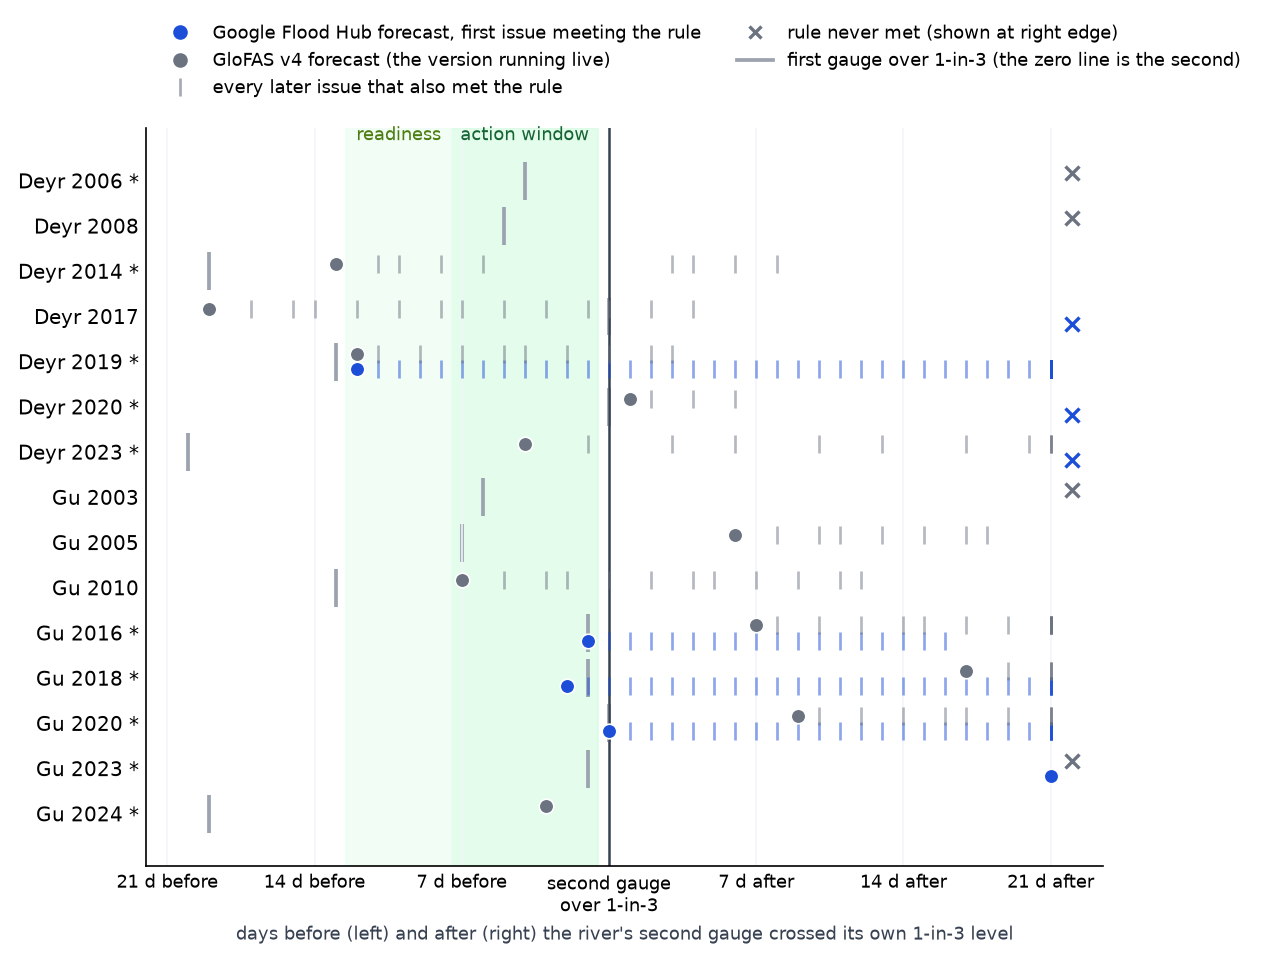
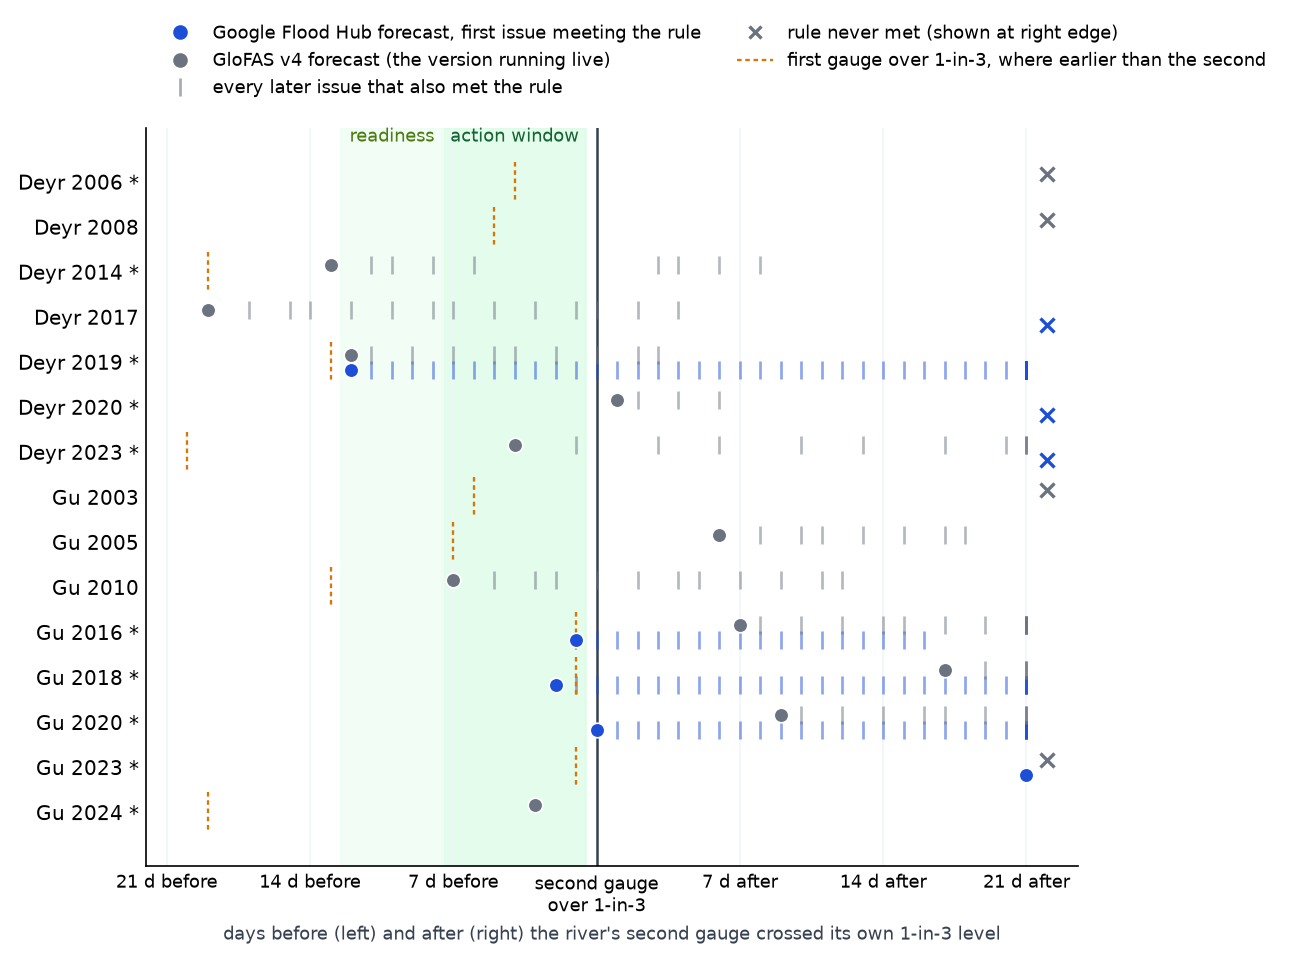
Trigger summary: first-gauge marker as a thin dotted amber line, drawn over the grid

diff --git a/pages/trigger-single-model/summary.html b/pages/trigger-single-model/summary.html
@@ -56,4 +56,4 @@ D.rows.slice().reverse().forEach(function(r){
   h.push("<tr>"+cells.join("")+"</tr>");
 });
 document.getElementById("aiTable").innerHTML=h.join("");
-})();</script><h2>Checked on the forecasts</h2><p>The tests above use each model's record of the past, whereas the trigger runs on forecasts. The historical forecasts were therefore replayed to find the day the alert would have gone out, 1 to 7 days ahead, and that day was compared with the day the flood season began at the gauges, which is the day the river's second gauge crossed its own 1-in-3 level (the first gauge may have crossed days earlier). Either river counts. Only Google Flood Hub (2016 to 2023) and GloFAS v4 (2003 to 2023, plus the live Gu 2024 forecasts) have archives. GloFAS's archive holds two issue days a week (104 a year) where Google's holds every day, so replayed GloFAS lead times are coarser by up to three days. The live GloFAS forecast is daily.</p><figure><img src="figs/s_leads.png" alt="Lead time of the first forecast issue meeting the rule, per flood season"><figcaption>One row per flood season, with severe seasons starred. The green band is the action window and the pale green band is readiness. The grey bar is the day the river's first gauge crossed its own 1-in-3 level, and the black line at zero is the second gauge, the reference used here. The dot is the first forecast issue that met the rule, and the ticks are every later issue that met it. Points left of the zero line went out before the second gauge crossed, and points to the right went out after it.</figcaption></figure><p>In Deyr, GloFAS v4 activated before the second gauge crossed in 4 of 7 seasons and was first in 3 of the 4 seasons both archives cover. In Gu, Google was first in all 4. On the Shabelle it gave 10 to 13 days of warning in three of four seasons, where GloFAS v4 gave 3 days once and nothing in the other three. The lead-time comparison and the calibration were done independently and point the same way.</p><details><summary>Flood by flood</summary><div class='tw'><table><thead><tr><th>Season</th><th>River(s) that flooded</th><th>Second gauge over 1-in-3</th><th>Google Flood Hub forecast</th><th>GloFAS v4 forecast</th><th>First</th></tr></thead><tbody><tr><td>Deyr 2006 *</td><td>Juba and Shabelle</td><td>30 Oct</td><td><span class="pill na">no archive</span></td><td><span class="pill never">rule never met</span></td><td></td></tr><tr><td>Deyr 2008</td><td>Juba and Shabelle</td><td>15 Nov</td><td><span class="pill na">no archive</span></td><td><span class="pill never">rule never met</span></td><td></td></tr><tr><td>Deyr 2014 *</td><td>Juba and Shabelle</td><td>20 Oct</td><td><span class="pill na">no archive</span></td><td><span class="pill before">13 d before</span><span class="who">Shabelle, 7 Oct</span></td><td></td></tr><tr><td>Deyr 2017</td><td>Juba</td><td>7 Nov</td><td><span class="pill never">rule never met</span></td><td><span class="pill before">19 d before</span><span class="who">Juba, 19 Oct</span></td><td>GloFAS v4</td></tr><tr><td>Deyr 2019 *</td><td>Shabelle</td><td>14 Oct</td><td><span class="pill before">12 d before</span><span class="who">Shabelle, 2 Oct</span></td><td><span class="pill before">12 d before</span><span class="who">Shabelle, 2 Oct</span></td><td>tie</td></tr><tr><td>Deyr 2020 *</td><td>Shabelle</td><td>1 Oct</td><td><span class="pill never">rule never met</span></td><td><span class="pill after">1 d after</span><span class="who">Shabelle, 2 Oct</span></td><td>GloFAS v4</td></tr><tr><td>Deyr 2023 *</td><td>Juba and Shabelle</td><td>25 Oct</td><td><span class="pill never">rule never met</span></td><td><span class="pill before">4 d before</span><span class="who">Juba, 21 Oct</span></td><td>GloFAS v4</td></tr><tr><td>Gu 2003</td><td>Shabelle</td><td>11 May</td><td><span class="pill na">no archive</span></td><td><span class="pill never">rule never met</span></td><td></td></tr><tr><td>Gu 2005</td><td>Juba and Shabelle</td><td>12 May</td><td><span class="pill na">no archive</span></td><td><span class="pill after">6 d after</span><span class="who">Shabelle, 18 May</span></td><td></td></tr><tr><td>Gu 2010</td><td>Juba and Shabelle</td><td>18 May</td><td><span class="pill na">no archive</span></td><td><span class="pill before">7 d before</span><span class="who">Shabelle, 11 May</span></td><td></td></tr><tr><td>Gu 2016 *</td><td>Juba and Shabelle</td><td>1 May</td><td><span class="pill before">1 d before</span><span class="who">Shabelle, 30 Apr</span></td><td><span class="pill after">7 d after</span><span class="who">Shabelle, 8 May</span></td><td>Google</td></tr><tr><td>Gu 2018 *</td><td>Juba and Shabelle</td><td>17 Apr</td><td><span class="pill before">2 d before</span><span class="who">Juba, 15 Apr</span></td><td><span class="pill after">17 d after</span><span class="who">Juba, 4 May</span></td><td>Google</td></tr><tr><td>Gu 2020 *</td><td>Juba and Shabelle</td><td>22 Apr</td><td><span class="pill same">same day</span><span class="who">Shabelle, 22 Apr</span></td><td><span class="pill after">9 d after</span><span class="who">Juba, 1 May</span></td><td>Google</td></tr><tr><td>Gu 2023 *</td><td>Juba and Shabelle</td><td>25 Mar</td><td><span class="pill after">32 d after</span><span class="who">Shabelle, 26 Apr</span></td><td><span class="pill never">rule never met</span></td><td>Google</td></tr><tr><td>Gu 2024 *</td><td>Juba and Shabelle</td><td>8 May</td><td><span class="pill na">no archive</span></td><td><span class="pill before">3 d before</span><span class="who">Juba, 5 May</span></td><td></td></tr></tbody></table></div></details><h2>SWALIM's alerts</h2><p>SWALIM's bulletins were first in 6 of the 8 seasons in which both SWALIM and the window's source flagged, and SWALIM alone flagged in 5 further seasons. First means the bulletin date against the day the window's rule was met on the source's own record, since GloFAS version 5 has no forecast archive. The bulletins are forward-looking and often early, and a SWALIM moderate flood risk alert for either river therefore activates readiness. They cannot carry the action phase, because CERF needs an activation basis that can be backtested and the bulletins are expert judgement rather than a fixed rule.</p><details><summary>SWALIM against the window's source, season by season</summary><div class='tw'><table><thead><tr><th>Season</th><th>River</th><th>SWALIM first bulletin</th><th>Who was first</th></tr></thead><tbody><tr><td>Deyr 2006</td><td>Juba</td><td>2006-10-31</td><td>GloFAS v5 2 d before SWALIM</td></tr><tr><td>Deyr 2006</td><td>Shabelle</td><td>2006-10-31</td><td>SWALIM 2 d before GloFAS v5</td></tr><tr><td>Deyr 2014</td><td>Juba</td><td>2014-10-15</td><td>SWALIM only; GloFAS v5 rule never met on its record</td></tr><tr><td>Deyr 2014</td><td>Shabelle</td><td>2014-10-15</td><td>SWALIM 1 d before GloFAS v5</td></tr><tr><td>Deyr 2019</td><td>Juba</td><td>2019-10-22</td><td>SWALIM only; GloFAS v5 rule never met on its record</td></tr><tr><td>Deyr 2019</td><td>Shabelle</td><td>2019-10-22</td><td>GloFAS v5 11 d before SWALIM</td></tr><tr><td>Deyr 2020</td><td>Shabelle</td><td>2020-09-08</td><td>no bulletin for the October rise</td></tr><tr><td>Deyr 2023</td><td>Juba</td><td>2023-10-20</td><td>SWALIM 9 d before GloFAS v5</td></tr><tr><td>Deyr 2023</td><td>Shabelle</td><td>2023-10-21</td><td>SWALIM 19 d before GloFAS v5</td></tr><tr><td>Gu 2016</td><td>Shabelle</td><td>no bulletin</td><td>no SWALIM bulletin; Google 12 May</td></tr><tr><td>Gu 2020</td><td>Juba</td><td>2020-04-27</td><td>SWALIM 2 d before Google</td></tr><tr><td>Gu 2020</td><td>Shabelle</td><td>2020-04-27</td><td>SWALIM 3 d before Google</td></tr><tr><td>Gu 2021</td><td>Juba</td><td>2021-05-10</td><td>SWALIM only; Google rule never met on its record</td></tr><tr><td>Gu 2021</td><td>Shabelle</td><td>2021-05-10</td><td>SWALIM only; Google rule never met on its record</td></tr><tr><td>Gu 2023</td><td>Shabelle</td><td>2023-05-08</td><td>SWALIM only; Google rule never met on its record</td></tr><tr><td>Gu 2024</td><td>Juba</td><td>2024-05-09</td><td>Google record ends 2023</td></tr><tr><td>Gu 2024</td><td>Shabelle</td><td>2024-04-19</td><td>Google record ends 2023</td></tr></tbody></table></div></details><h2>What runs live, and what is open</h2><ul><li><b>Two gauges have stopped reporting.</b> Bardheere has not reported since 30 November 2023 and Bualle since 14 March 2024.</li><li><b>Impact years are not yet defined.</b> The benchmark is gauge levels rather than people affected, and 2013 and 2021 show why an impact cross-check is the next step. Each window holds three to five severe seasons, so every difference on this page rests on one or two events.</li></ul></div></body></html>
+})();</script><h2>Checked on the forecasts</h2><p>The tests above use each model's record of the past, whereas the trigger runs on forecasts. The historical forecasts were therefore replayed to find the day the alert would have gone out, 1 to 7 days ahead, and that day was compared with the day the flood season began at the gauges, which is the day the river's second gauge crossed its own 1-in-3 level (the first gauge may have crossed days earlier). Either river counts. Only Google Flood Hub (2016 to 2023) and GloFAS v4 (2003 to 2023, plus the live Gu 2024 forecasts) have archives. GloFAS's archive holds two issue days a week (104 a year) where Google's holds every day, so replayed GloFAS lead times are coarser by up to three days. The live GloFAS forecast is daily.</p><figure><img src="figs/s_leads.png" alt="Lead time of the first forecast issue meeting the rule, per flood season"><figcaption>One row per flood season, with severe seasons starred. The green band is the action window and the pale green band is readiness. The dotted amber line is the day the river's first gauge crossed its own 1-in-3 level, shown where it came before the second; the black line at zero is the second gauge, the reference used here. The dot is the first forecast issue that met the rule, and the ticks are every later issue that met it. Points left of the zero line went out before the second gauge crossed, and points to the right went out after it.</figcaption></figure><p>In Deyr, GloFAS v4 activated before the second gauge crossed in 4 of 7 seasons and was first in 3 of the 4 seasons both archives cover. In Gu, Google was first in all 4. On the Shabelle it gave 10 to 13 days of warning in three of four seasons, where GloFAS v4 gave 3 days once and nothing in the other three. The lead-time comparison and the calibration were done independently and point the same way.</p><details><summary>Flood by flood</summary><div class='tw'><table><thead><tr><th>Season</th><th>River(s) that flooded</th><th>Second gauge over 1-in-3</th><th>Google Flood Hub forecast</th><th>GloFAS v4 forecast</th><th>First</th></tr></thead><tbody><tr><td>Deyr 2006 *</td><td>Juba and Shabelle</td><td>30 Oct</td><td><span class="pill na">no archive</span></td><td><span class="pill never">rule never met</span></td><td></td></tr><tr><td>Deyr 2008</td><td>Juba and Shabelle</td><td>15 Nov</td><td><span class="pill na">no archive</span></td><td><span class="pill never">rule never met</span></td><td></td></tr><tr><td>Deyr 2014 *</td><td>Juba and Shabelle</td><td>20 Oct</td><td><span class="pill na">no archive</span></td><td><span class="pill before">13 d before</span><span class="who">Shabelle, 7 Oct</span></td><td></td></tr><tr><td>Deyr 2017</td><td>Juba</td><td>7 Nov</td><td><span class="pill never">rule never met</span></td><td><span class="pill before">19 d before</span><span class="who">Juba, 19 Oct</span></td><td>GloFAS v4</td></tr><tr><td>Deyr 2019 *</td><td>Shabelle</td><td>14 Oct</td><td><span class="pill before">12 d before</span><span class="who">Shabelle, 2 Oct</span></td><td><span class="pill before">12 d before</span><span class="who">Shabelle, 2 Oct</span></td><td>tie</td></tr><tr><td>Deyr 2020 *</td><td>Shabelle</td><td>1 Oct</td><td><span class="pill never">rule never met</span></td><td><span class="pill after">1 d after</span><span class="who">Shabelle, 2 Oct</span></td><td>GloFAS v4</td></tr><tr><td>Deyr 2023 *</td><td>Juba and Shabelle</td><td>25 Oct</td><td><span class="pill never">rule never met</span></td><td><span class="pill before">4 d before</span><span class="who">Juba, 21 Oct</span></td><td>GloFAS v4</td></tr><tr><td>Gu 2003</td><td>Shabelle</td><td>11 May</td><td><span class="pill na">no archive</span></td><td><span class="pill never">rule never met</span></td><td></td></tr><tr><td>Gu 2005</td><td>Juba and Shabelle</td><td>12 May</td><td><span class="pill na">no archive</span></td><td><span class="pill after">6 d after</span><span class="who">Shabelle, 18 May</span></td><td></td></tr><tr><td>Gu 2010</td><td>Juba and Shabelle</td><td>18 May</td><td><span class="pill na">no archive</span></td><td><span class="pill before">7 d before</span><span class="who">Shabelle, 11 May</span></td><td></td></tr><tr><td>Gu 2016 *</td><td>Juba and Shabelle</td><td>1 May</td><td><span class="pill before">1 d before</span><span class="who">Shabelle, 30 Apr</span></td><td><span class="pill after">7 d after</span><span class="who">Shabelle, 8 May</span></td><td>Google</td></tr><tr><td>Gu 2018 *</td><td>Juba and Shabelle</td><td>17 Apr</td><td><span class="pill before">2 d before</span><span class="who">Juba, 15 Apr</span></td><td><span class="pill after">17 d after</span><span class="who">Juba, 4 May</span></td><td>Google</td></tr><tr><td>Gu 2020 *</td><td>Juba and Shabelle</td><td>22 Apr</td><td><span class="pill same">same day</span><span class="who">Shabelle, 22 Apr</span></td><td><span class="pill after">9 d after</span><span class="who">Juba, 1 May</span></td><td>Google</td></tr><tr><td>Gu 2023 *</td><td>Juba and Shabelle</td><td>25 Mar</td><td><span class="pill after">32 d after</span><span class="who">Shabelle, 26 Apr</span></td><td><span class="pill never">rule never met</span></td><td>Google</td></tr><tr><td>Gu 2024 *</td><td>Juba and Shabelle</td><td>8 May</td><td><span class="pill na">no archive</span></td><td><span class="pill before">3 d before</span><span class="who">Juba, 5 May</span></td><td></td></tr></tbody></table></div></details><h2>SWALIM's alerts</h2><p>SWALIM's bulletins were first in 6 of the 8 seasons in which both SWALIM and the window's source flagged, and SWALIM alone flagged in 5 further seasons. First means the bulletin date against the day the window's rule was met on the source's own record, since GloFAS version 5 has no forecast archive. The bulletins are forward-looking and often early, and a SWALIM moderate flood risk alert for either river therefore activates readiness. They cannot carry the action phase, because CERF needs an activation basis that can be backtested and the bulletins are expert judgement rather than a fixed rule.</p><details><summary>SWALIM against the window's source, season by season</summary><div class='tw'><table><thead><tr><th>Season</th><th>River</th><th>SWALIM first bulletin</th><th>Who was first</th></tr></thead><tbody><tr><td>Deyr 2006</td><td>Juba</td><td>2006-10-31</td><td>GloFAS v5 2 d before SWALIM</td></tr><tr><td>Deyr 2006</td><td>Shabelle</td><td>2006-10-31</td><td>SWALIM 2 d before GloFAS v5</td></tr><tr><td>Deyr 2014</td><td>Juba</td><td>2014-10-15</td><td>SWALIM only; GloFAS v5 rule never met on its record</td></tr><tr><td>Deyr 2014</td><td>Shabelle</td><td>2014-10-15</td><td>SWALIM 1 d before GloFAS v5</td></tr><tr><td>Deyr 2019</td><td>Juba</td><td>2019-10-22</td><td>SWALIM only; GloFAS v5 rule never met on its record</td></tr><tr><td>Deyr 2019</td><td>Shabelle</td><td>2019-10-22</td><td>GloFAS v5 11 d before SWALIM</td></tr><tr><td>Deyr 2020</td><td>Shabelle</td><td>2020-09-08</td><td>no bulletin for the October rise</td></tr><tr><td>Deyr 2023</td><td>Juba</td><td>2023-10-20</td><td>SWALIM 9 d before GloFAS v5</td></tr><tr><td>Deyr 2023</td><td>Shabelle</td><td>2023-10-21</td><td>SWALIM 19 d before GloFAS v5</td></tr><tr><td>Gu 2016</td><td>Shabelle</td><td>no bulletin</td><td>no SWALIM bulletin; Google 12 May</td></tr><tr><td>Gu 2020</td><td>Juba</td><td>2020-04-27</td><td>SWALIM 2 d before Google</td></tr><tr><td>Gu 2020</td><td>Shabelle</td><td>2020-04-27</td><td>SWALIM 3 d before Google</td></tr><tr><td>Gu 2021</td><td>Juba</td><td>2021-05-10</td><td>SWALIM only; Google rule never met on its record</td></tr><tr><td>Gu 2021</td><td>Shabelle</td><td>2021-05-10</td><td>SWALIM only; Google rule never met on its record</td></tr><tr><td>Gu 2023</td><td>Shabelle</td><td>2023-05-08</td><td>SWALIM only; Google rule never met on its record</td></tr><tr><td>Gu 2024</td><td>Juba</td><td>2024-05-09</td><td>Google record ends 2023</td></tr><tr><td>Gu 2024</td><td>Shabelle</td><td>2024-04-19</td><td>Google record ends 2023</td></tr></tbody></table></div></details><h2>What runs live, and what is open</h2><ul><li><b>Two gauges have stopped reporting.</b> Bardheere has not reported since 30 November 2023 and Bualle since 14 March 2024.</li><li><b>Impact years are not yet defined.</b> The benchmark is gauge levels rather than people affected, and 2013 and 2021 show why an impact cross-check is the next step. Each window holds three to five severe seasons, so every difference on this page rests on one or two events.</li></ul></div></body></html>

diff --git a/scripts/page_additions/summary_page.py b/scripts/page_additions/summary_page.py
@@ -283,7 +283,8 @@ def fig_leads():
     for i, (s, r) in enumerate(rows):
         labels.append(f"{SEASON[s][0]} {r['year']}{' *' if r['severe'] else ''}")
         x1 = -min(r.get("first_gauge_before", 0), 21)
-        ax.plot([x1, x1], [i - .42, i + .42], color="#9ca3af", lw=1.8, solid_capstyle="butt", zorder=1)
+        if x1 < 0:
+            ax.plot([x1, x1], [i - .45, i + .45], color=COL["swalim"], lw=1.1, ls=(0, (2, 1.6)), zorder=2.6)   # above the grid, below the markers
         for m, dy in (("google_grrr", .17), ("glofas_v4", -.17)):
             v = r[m]
             if v["kind"] == "na":
@@ -306,7 +307,7 @@ def fig_leads():
                        Line2D([], [], marker="o", ls="none", color=COL["glofas_v4"], label="GloFAS v4 forecast (the version running live)"),
                        Line2D([], [], marker="|", ls="none", color="#6b7280", ms=9, mew=1.3, alpha=.6, label="every later issue that also met the rule"),
                        Line2D([], [], marker="x", ls="none", color="#6b7280", mew=1.6, label="rule never met (shown at right edge)"),
-                       Line2D([], [], color="#9ca3af", lw=1.8, label="first gauge over 1-in-3 (the zero line is the second)")],
+                       Line2D([], [], color=COL["swalim"], lw=1.1, ls=(0, (2, 1.6)), label="first gauge over 1-in-3, where earlier than the second")],
               loc="lower left", frameon=False, ncol=2, bbox_to_anchor=(0, 1.02), fontsize=8.6)
     fig.tight_layout(); fig.savefig(FIGS / "s_leads.png", dpi=150, bbox_inches="tight", pad_inches=0.12); plt.close(fig)
 
@@ -470,7 +471,7 @@ document.getElementById("aiTable").innerHTML=h.join("");
 
 d, g = FB_D, FB_G
 add(f"<h2>Checked on the forecasts</h2><p>The tests above use each model's record of the past, whereas the trigger runs on forecasts. The historical forecasts were therefore replayed to find the day the alert would have gone out, 1 to 7 days ahead, and that day was compared with the day the flood season began at the gauges, which is the day the river's second gauge crossed its own 1-in-3 level (the first gauge may have crossed days earlier). Either river counts. Only Google Flood Hub (2016 to 2023) and GloFAS v4 (2003 to 2023, plus the live Gu 2024 forecasts) have archives. GloFAS's archive holds two issue days a week ({GLOFAS_ISSUES} a year) where Google's holds every day, so replayed GloFAS lead times are coarser by up to three days. The live GloFAS forecast is daily.</p>")
-add("<figure><img src=\"figs/s_leads.png\" alt=\"Lead time of the first forecast issue meeting the rule, per flood season\"><figcaption>One row per flood season, with severe seasons starred. The green band is the action window and the pale green band is readiness. The grey bar is the day the river's first gauge crossed its own 1-in-3 level, and the black line at zero is the second gauge, the reference used here. The dot is the first forecast issue that met the rule, and the ticks are every later issue that met it. Points left of the zero line went out before the second gauge crossed, and points to the right went out after it.</figcaption></figure>")
+add("<figure><img src=\"figs/s_leads.png\" alt=\"Lead time of the first forecast issue meeting the rule, per flood season\"><figcaption>One row per flood season, with severe seasons starred. The green band is the action window and the pale green band is readiness. The dotted amber line is the day the river's first gauge crossed its own 1-in-3 level, shown where it came before the second; the black line at zero is the second gauge, the reference used here. The dot is the first forecast issue that met the rule, and the ticks are every later issue that met it. Points left of the zero line went out before the second gauge crossed, and points to the right went out after it.</figcaption></figure>")
 add(f"<p>In Deyr, GloFAS v4 activated before the second gauge crossed in {d['per_model']['glofas_v4'].get('before', 0)} of {d['n']} seasons and was first in {d['head_to_head']['glofas_v4']} of the {d['n_both']} seasons both archives cover. In Gu, Google was first in all {g['n_both']}. On the Shabelle it gave 10 to 13 days of warning in three of four seasons, where GloFAS v4 gave 3 days once and nothing in the other three. The lead-time comparison and the calibration were done independently and point the same way.</p>")
 rows6 = [[c(f"{SEASON[s][0]} {r['year']}{' *' if r['severe'] else ''}"), c(" and ".join(r["rivers"])), c(r["first_onset"]), c(pill(r["google_grrr"])), c(pill(r["glofas_v4"])), c(escape(r["first"]))] for s in ("deyr", "gu") for r in fb_rows[s]]
 add("<details><summary>Flood by flood</summary>" + table(["Season", "River(s) that flooded", "Second gauge over 1-in-3", "Google Flood Hub forecast", "GloFAS v4 forecast", "First"], rows6) + "</details>")
